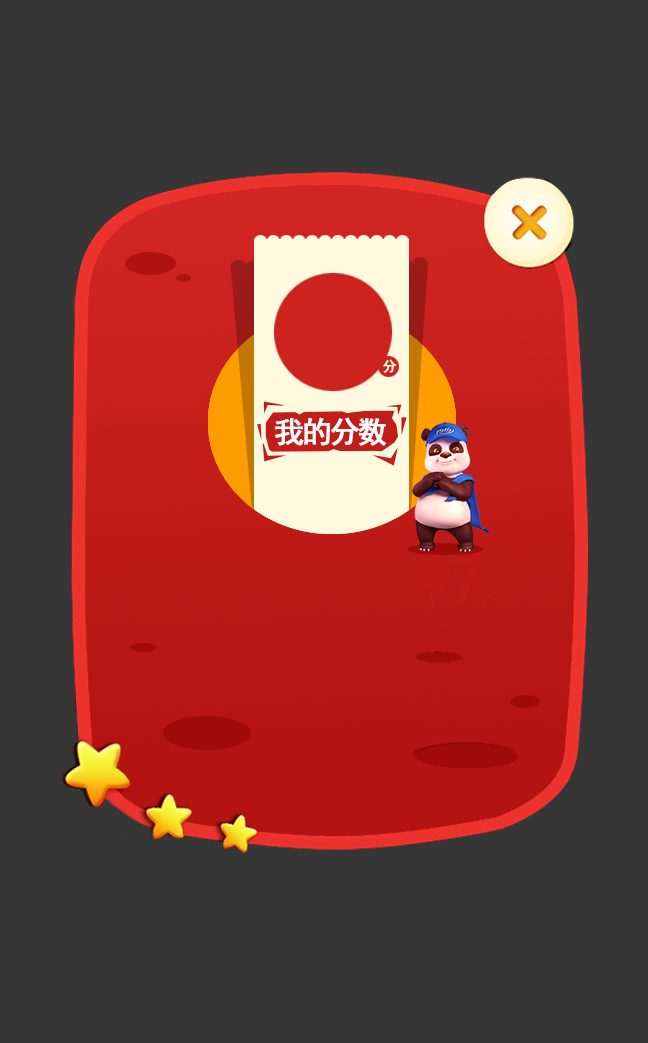
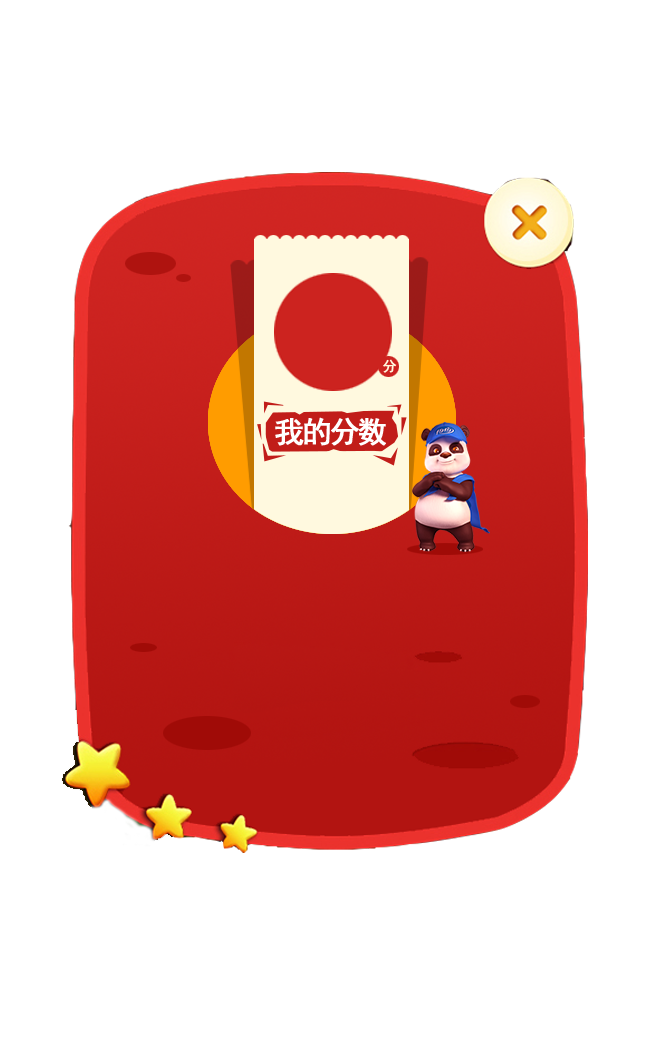
修改样式

diff --git a/public/css/ngDialog-theme-flat.css b/public/css/ngDialog-theme-flat.css
@@ -1,0 +1,217 @@
+
+
+@-webkit-keyframes ngdialog-flipin-horizontal {
+  0% {
+    opacity: 0;
+    -webkit-transform: rotateY(-90deg);
+    transform: rotateY(-90deg);
+  }
+
+  100% {
+    opacity: 1;
+    -webkit-transform: rotateY(0deg);
+    transform: rotateY(0deg);
+  }
+}
+
+@keyframes ngdialog-flipin-horizontal {
+  0% {
+    opacity: 0;
+    -webkit-transform: rotateY(-90deg);
+    -ms-transform: rotateY(-90deg);
+    transform: rotateY(-90deg);
+  }
+
+  100% {
+    opacity: 1;
+    -webkit-transform: rotateY(0deg);
+    -ms-transform: rotateY(0deg);
+    transform: rotateY(0deg);
+  }
+}
+
+@-webkit-keyframes ngdialog-flipout-horizontal {
+  0% {
+    opacity: 1;
+    -webkit-transform: rotateY(0deg);
+    transform: rotateY(0deg);
+  }
+
+  100% {
+    opacity: 0;
+    -webkit-transform: rotateY(90deg);
+    transform: rotateY(90deg);
+  }
+}
+
+@keyframes ngdialog-flipout-horizontal {
+  0% {
+    opacity: 1;
+    -webkit-transform: rotateY(0deg);
+    -ms-transform: rotateY(0deg);
+    transform: rotateY(0deg);
+  }
+
+  100% {
+    opacity: 0;
+    -webkit-transform: rotateY(90deg);
+    -ms-transform: rotateY(90deg);
+    transform: rotateY(90deg);
+  }
+}
+
+.ngdialog.ngdialog-theme-flat {
+  font-size: 1.5em;
+/*  padding-bottom: 100px;
+  padding-top: 100px;*/
+  -webkit-perspective: 1300px;
+  -ms-perspective: 1300px;
+  perspective: 1300px;
+  -webkit-perspective-origin: 50% 150px;
+  -ms-perspective-origin: 50% 150px;
+  perspective-origin: 50% 150px;
+}
+
+.ngdialog.ngdialog-theme-flat .ngdialog-overlay {
+  background: rgba(0, 0, 0, 0.8);
+}
+
+.ngdialog.ngdialog-theme-flat.ngdialog-closing .ngdialog-content {
+  -webkit-animation: ngdialog-flipout-horizontal .5s;
+  animation: ngdialog-flipout-horizontal .5s;
+}
+
+.ngdialog.ngdialog-theme-flat .ngdialog-content {
+  -webkit-animation: ngdialog-flipin-horizontal .5s;
+  animation: ngdialog-flipin-horizontal .5s;
+  background: transparent;
+  color: #444;
+  /*border: 5px solid #27ae60;*/
+  font-family: "Helvetica Neue",sans-serif;
+  line-height: 1.5em;
+  margin: 0 auto;
+  max-width: 100%;
+  padding: 2em 2em 3em;
+  position: relative;
+  -webkit-transform-style: preserve-3d;
+  -ms-transform-style: preserve-3d;
+  transform-style: preserve-3d;
+  width: 600px;
+}
+
+.ngdialog.ngdialog-theme-flat .ngdialog-close {
+  cursor: pointer;
+  position: absolute;
+  right: 0;
+  top: 0;
+}
+
+.ngdialog.ngdialog-theme-flat .ngdialog-close:before {
+  background: #27ae60;
+  color: #fff;
+  display: block;
+  font-family: "Helvetica Neue",sans-serif;
+  font-size: 1em;
+  font-weight: 100;
+  height: 1.25em;
+  line-height: 1px;
+  overflow: hidden;
+  padding-top: .5em;
+  right: 0;
+  text-align: center;
+  text-indent: 1px;
+  top: 0;
+  width: 1.25em;
+}
+
+.ngdialog.ngdialog-theme-flat .ngdialog-message {
+  margin-bottom: .5em;
+}
+
+.ngdialog.ngdialog-theme-flat .ngdialog-input {
+  margin-bottom: .5em;
+}
+
+.ngdialog.ngdialog-theme-flat .ngdialog-input textarea,
+.ngdialog.ngdialog-theme-flat .ngdialog-input input[type="text"],
+.ngdialog.ngdialog-theme-flat .ngdialog-input input[type="password"],
+.ngdialog.ngdialog-theme-flat .ngdialog-input input[type="email"],
+.ngdialog.ngdialog-theme-flat .ngdialog-input input[type="url"] {
+  background: #f0f0f0;
+  border: 0;
+  border-radius: 3px;
+  font-family: inherit;
+  font-size: inherit;
+  font-weight: inherit;
+  margin: 0 0 .25em;
+  min-height: 2.5em;
+  padding: .25em .67em;
+  width: 100%;
+}
+
+.ngdialog.ngdialog-theme-flat .ngdialog-input textarea:focus,
+.ngdialog.ngdialog-theme-flat .ngdialog-input input[type="text"]:focus,
+.ngdialog.ngdialog-theme-flat .ngdialog-input input[type="password"]:focus,
+.ngdialog.ngdialog-theme-flat .ngdialog-input input[type="email"]:focus,
+.ngdialog.ngdialog-theme-flat .ngdialog-input input[type="url"]:focus {
+  -webkit-box-shadow: inset 0 0 0 2px #666;
+  box-shadow: inset 0 0 0 2px #666;
+  outline: none;
+}
+
+.ngdialog.ngdialog-theme-flat .ngdialog-buttons {
+  margin-bottom: -3em;
+  margin-left: -2em;
+  margin-right: -2em;
+  padding-top: 1em;
+}
+
+.ngdialog.ngdialog-theme-flat .ngdialog-buttons:after {
+  clear: both;
+  content: '';
+  display: table;
+}
+
+.ngdialog.ngdialog-theme-flat .ngdialog-button {
+  border: 0;
+  float: right;
+  font-family: inherit;
+  font-size: 1em;
+  letter-spacing: .1em;
+  line-height: 1em;
+  margin: 0;
+  padding: .5em 1em;
+  text-transform: uppercase;
+  cursor: pointer;
+}
+
+.ngdialog.ngdialog-theme-flat .ngdialog-button:focus {
+  outline: none;
+}
+
+.ngdialog.ngdialog-theme-flat .ngdialog-button.ngdialog-button-primary {
+  background: #27ae60;
+  color: #fff;
+}
+
+.ngdialog.ngdialog-theme-flat .ngdialog-button.ngdialog-button-primary:focus {
+  -webkit-box-shadow: inset 0 3px rgba(0,0,0,0.2);
+  box-shadow: inset 0 3px rgba(0,0,0,0.2);
+}
+
+.ngdialog.ngdialog-theme-flat .ngdialog-button.ngdialog-button-secondary {
+  background: #fff;
+  color: #ccc;
+}
+
+.ngdialog.ngdialog-theme-flat .ngdialog-button.ngdialog-button-secondary:focus {
+  background: #eee;
+  -webkit-box-shadow: inset 0 3px #aaa;
+  box-shadow: inset 0 3px #aaa;
+  color: #777;
+}
+
+.ngdialog.ngdialog-theme-flat .ngdialog-button.ngdialog-button-secondary:hover,
+.ngdialog.ngdialog-theme-flat .ngdialog-button.ngdialog-button-secondary:active {
+  color: #777;
+}

diff --git a/public/js/app.js b/public/js/app.js
@@ -125,7 +125,6 @@ angular.module('wine', ['ui.router', 'ngDialog'])
 
 		$scope.start = function(){
 			// 更新当前状态 根据微信
-
 			$scope.game.start();
 
 			// timer
@@ -140,10 +139,10 @@ angular.module('wine', ['ui.router', 'ngDialog'])
 		}
 
 		$scope.show = function(template, data){
-			alert('your score: '+ $scope.game.score);
 			ngDialog.open({ 
 				template: 'templates/modals/score.html' ,
-				closeByDocument: false
+				closeByDocument: false,
+				className: 'ngdialog-theme-flat ngdialog-theme-custom'
 			});
 		}
 

diff --git a/public/index.html b/public/index.html
@@ -11,6 +11,7 @@
         <link rel="stylesheet" href="lib/normalize-css/normalize.css">
         <link rel="stylesheet" href="lib/ng-dialog/css/ngDialog.css">
         <link rel="stylesheet" href="lib/ng-dialog/css/ngDialog-theme-default.css">
+        <link rel="stylesheet" href="css/ngDialog-theme-flat.css">
         <link rel="stylesheet" href="css/style.css">
     </head>
     <body>

diff --git a/public/templates/modals/score.html b/public/templates/modals/score.html
@@ -1,3 +1,9 @@
 <div class="score modal">
-	<img src="img/result.png" alt="">
+	
+	<div class="score-contianer">
+		<img src="img/result.png" alt="">
+	</div>
+
+	<button type="button">分享到朋友圈</button>
+	<button type="button">再玩一次</button>
 </div>
